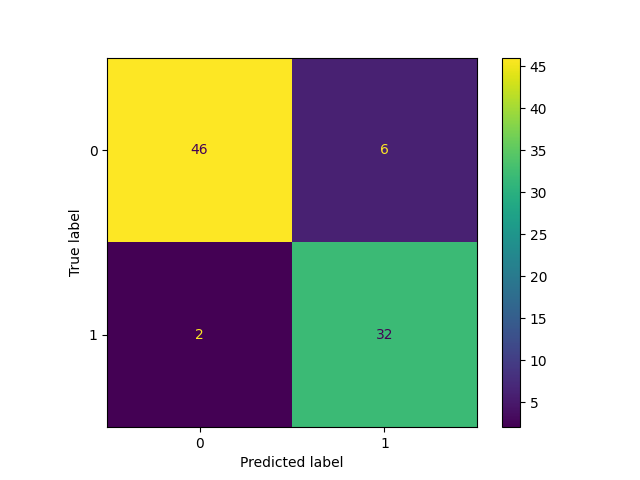
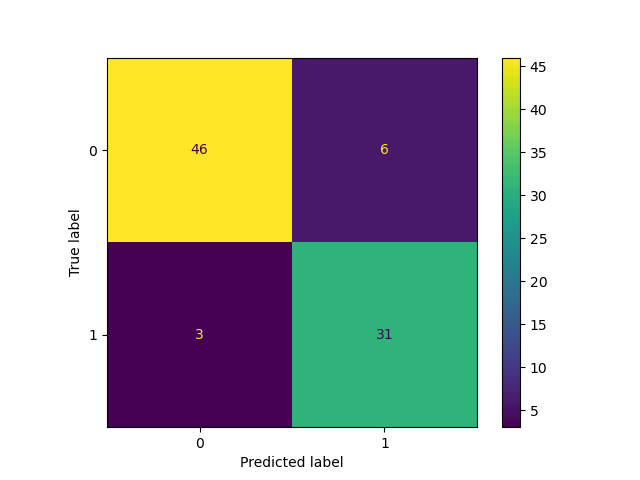
Did final evaluation on performance.

diff --git a/Ex1/Ozone Layer/NN.py b/Ex1/Ozone Layer/NN.py
@@ -4,10 +4,11 @@ from sklearn.neural_network import MLPClassifier
 from sklearn.model_selection import train_test_split, cross_val_score
 from sklearn.preprocessing import StandardScaler
 from sklearn import metrics
+from imblearn.over_sampling import SMOTE
 
 df = pd.read_pickle('../../datasets/Ozone/data_preprocessed.pkl')
 
-X = df.drop(['Date','Class'], axis = 1)
+X = df.drop(['Date', 'Class'], axis=1)
 y = df.Class
 
 # Split dataset into training set and test set
@@ -20,14 +21,14 @@ X_train = scaler.transform(X_train)
 X_test = scaler.transform(X_test)
 
 # Create Neural Network classifier object
-mlp = MLPClassifier(hidden_layer_sizes= (20,20,20),
-                    max_iter = 100,
+mlp = MLPClassifier(hidden_layer_sizes=(20, 20, 20),
+                    max_iter=100,
                     activation='tanh',
                     solver='adam')
 
 start = time.time()
 # Train Neural Network
-mlp = mlp.fit(X_train,y_train)
+mlp = mlp.fit(X_train, y_train)
 end = time.time()
 duration = end - start
 
@@ -35,7 +36,7 @@ duration = end - start
 pred_test = mlp.predict(X_test)
 
 # Model Accuracy, how often is the classifier correct?
-print(f"Duration: {round(duration,2)}s")
+print(f"Duration: {round(duration, 2)}s")
 print(metrics.classification_report(y_test, pred_test))
 cm = metrics.confusion_matrix(y_test, pred_test)
 disp = metrics.ConfusionMatrixDisplay(confusion_matrix=cm)
@@ -53,7 +54,6 @@ print("Cross validation yielded %0.2f accuracy with a standard deviation of %0.2
 
 # Since the class '1' is obviously underpresented we are trying in the following to countersteer
 # by adding more observations of this class using the SMOTE method.
-from imblearn.over_sampling import SMOTE
 
 sm = SMOTE(random_state=1)
 X_train_res, y_train_res = sm.fit_resample(X_train, y_train)
@@ -65,7 +65,7 @@ X_test = scaler.transform(X_test)
 
 start = time.time()
 # Train Neural Network
-mlp = mlp.fit(X_train_res,y_train_res)
+mlp = mlp.fit(X_train_res, y_train_res)
 end = time.time()
 duration = end - start
 
@@ -74,7 +74,7 @@ pred_test = mlp.predict(X_test)
 
 # Model Accuracy, how often is the classifier correct?
 print("---- Using SMOTE ----")
-print(f"Duration: {round(duration,2)}s")
+print(f"Duration: {round(duration, 2)}s")
 print(metrics.classification_report(y_test, pred_test))
 cm = metrics.confusion_matrix(y_test, pred_test)
 disp = metrics.ConfusionMatrixDisplay(confusion_matrix=cm)

diff --git a/Ex1/Ozone Layer/DecisionTree.py b/Ex1/Ozone Layer/DecisionTree.py
@@ -20,9 +20,9 @@ X_train, X_test, y_train, y_test = train_test_split(X, y, test_size=0.3, random_
 # Create Decision Tree classifier object
 # criterion = 'gini', 'log_loss', 'entropy
 #
-clf = DecisionTreeClassifier(criterion = 'log_loss',
-                             max_depth = 8,
-                             class_weight={0: 0.1, 1: 0.9})
+clf = DecisionTreeClassifier(criterion = 'gini',
+                             max_depth = 5,
+                             class_weight={0: 0.2, 1: 0.8})
 
 start = time.time()
 # Train Decision Tree Classifier
@@ -59,7 +59,7 @@ graph = pydotplus.graph_from_dot_data(dot_data.getvalue())
 graph.write_png('DecisionTree_Ozone.png')
 Image(graph.create_png())
 
-'''
+
 # Since the class '1' is obviously underpresented we are trying in the following to countersteer
 # by adding more observations of this class using the SMOTE method.
 from imblearn.over_sampling import SMOTE
@@ -82,4 +82,4 @@ print(metrics.classification_report(y_test, pred_test))
 cm = metrics.confusion_matrix(y_test, pred_test)
 disp = metrics.ConfusionMatrixDisplay(confusion_matrix=cm)
 disp.plot().figure_.savefig('Confusion_matrix_Ozone_DT_resampled.png')
-'''
+

diff --git a/Ex1/Satimages/NN.py b/Ex1/Satimages/NN.py
@@ -23,10 +23,10 @@ y = y_with_bytes.astype(str)
 X_train, X_test, y_train, y_test = train_test_split(X, y, test_size=0.3, random_state=1)
 
 # Create Neural Network classifier object
-mlp = MLPClassifier(hidden_layer_sizes= (50, 25, 20, 10),
-                    max_iter=100,
+mlp = MLPClassifier(hidden_layer_sizes= (100, 100, 10),
+                    max_iter=300,
                     activation='tanh',
-                    solver='adam')
+                    solver='lbfgs')
 
 start = time.time()
 # Train Neural Network

diff --git a/Ex1/Ozone Layer/Naive Bayes.py b/Ex1/Ozone Layer/Naive Bayes.py
@@ -26,7 +26,7 @@ pred_train = model.predict(X_train)
 pred_test = model.predict(X_test)
 
 # Model Accuracy, how often is the classifier correct?
-print(f"Duration: {round(duration,2)}s")
+print(f"Duration: {round(duration,4)}s")
 print(metrics.classification_report(y_test, pred_test))
 cm = metrics.confusion_matrix(y_test, pred_test)
 disp = metrics.ConfusionMatrixDisplay(confusion_matrix=cm)

diff --git a/Ex1/Breast Cancer/DecisionTree.py b/Ex1/Breast Cancer/DecisionTree.py
@@ -24,7 +24,7 @@ preprocessor = ColumnTransformer(transformers=[
 X_train, X_test, y_train, y_test = train_test_split(X, y, test_size=0.3, random_state=1)
 
 #Building the classifier
-clf = DecisionTreeClassifier(criterion="log_loss", max_depth=3)
+clf = DecisionTreeClassifier(criterion="gini", max_depth=None)
 
 #Building pipeline
 pipe = Pipeline(steps=[

diff --git a/Ex1/Breast Cancer/NN.py b/Ex1/Breast Cancer/NN.py
@@ -26,8 +26,8 @@ preprocessor = ColumnTransformer(
     ]
 )
 
-mlp = MLPClassifier(hidden_layer_sizes=(256, 128),
-                    max_iter=300,
+mlp = MLPClassifier(hidden_layer_sizes=(128, 64),
+                    max_iter=100,
                     activation="tanh",
                     solver="lbfgs")
 pipe = Pipeline(steps=[

diff --git a/Ex1/Satimages/Naive Bayes.py b/Ex1/Satimages/Naive Bayes.py
@@ -14,7 +14,7 @@ y = X.pop("class").astype(str)
 #Split into train and test dataset
 X_train, X_test, y_train, y_test = train_test_split(X, y, test_size=0.3, random_state=1)
 
-clf = GaussianNB()
+clf = GaussianNB(var_smoothing=1e-12)
 
 #Training
 start = time.time()
